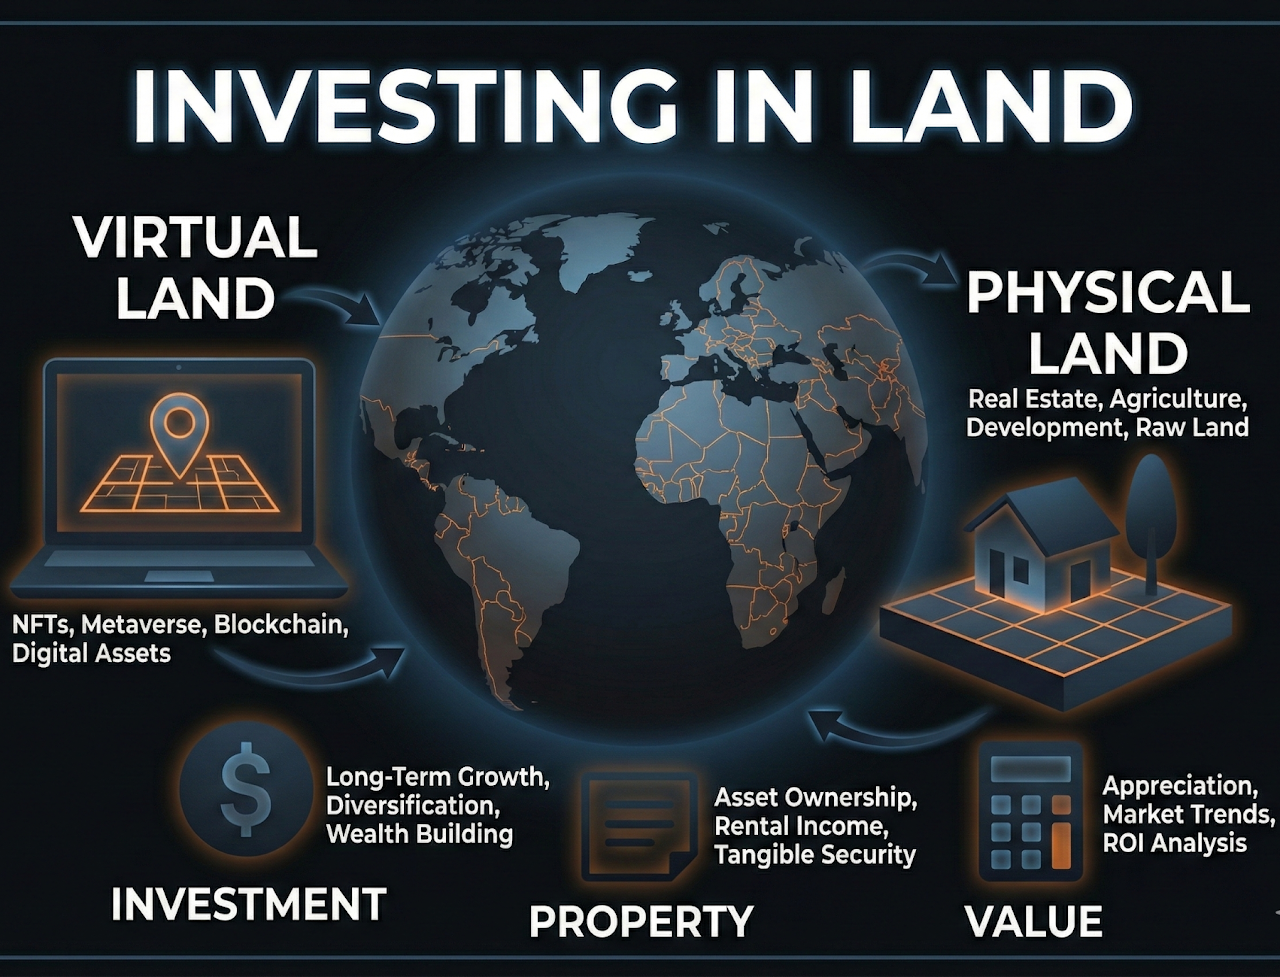
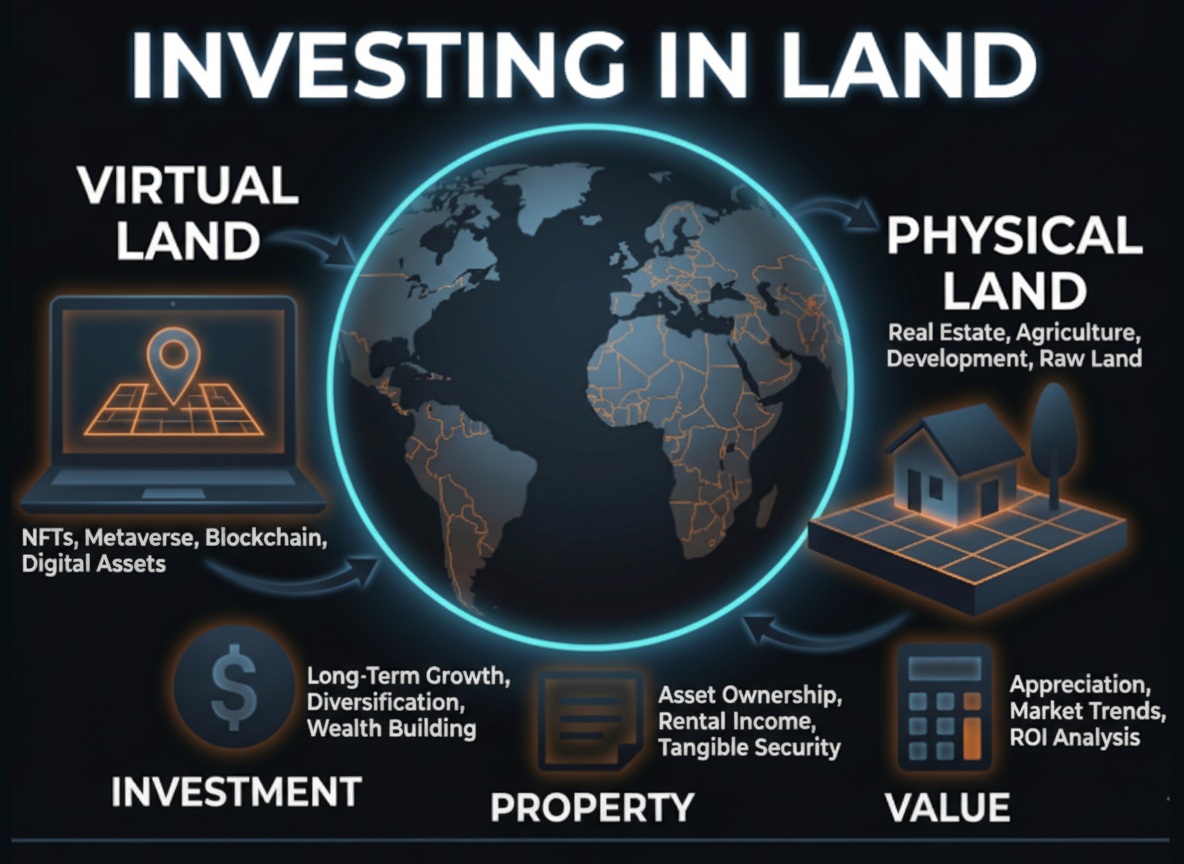
Changes

diff --git a/src/components/PrecisionSection.tsx b/src/components/PrecisionSection.tsx
@@ -1,6 +1,6 @@
 import { MapPin, Building, Users, TrendingUp, ChevronRight, ChevronDown } from "lucide-react";
 import { ClickableImage } from "@/components/ui/image-lightbox";
-import StrategicDashboard from "@/components/StrategicDashboard";
+import investingLand from "@/assets/investing-land.png";
 import marketWorld from "@/assets/market-world.png";
 import marketCountry from "@/assets/market-country.png";
 import marketCity from "@/assets/market-city.png";
@@ -60,7 +60,13 @@ export default function PrecisionSection() {
 
         {/* Strategic Analysis Infographic */}
         <div className="mb-16 md:mb-20">
-          <StrategicDashboard />
+          <div className="max-w-5xl mx-auto rounded-2xl overflow-hidden shadow-elegant border border-gold/20">
+            <ClickableImage 
+              src={investingLand} 
+              alt="Investing in Land - Virtual and Physical Land Strategy" 
+              className="w-full h-auto object-contain"
+            />
+          </div>
         </div>
 
         {/* Precision Points */}
